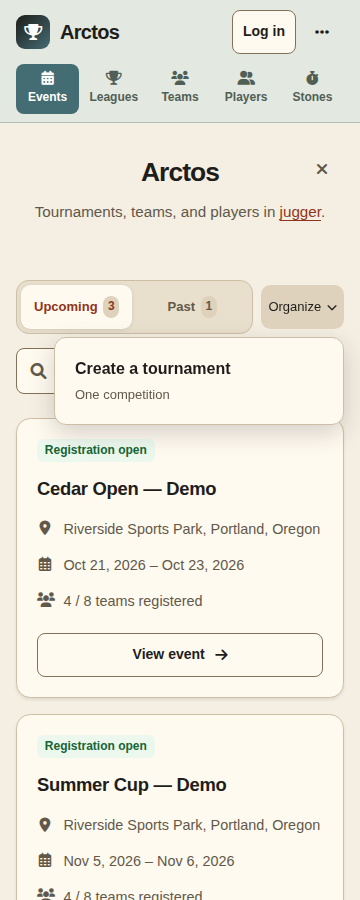
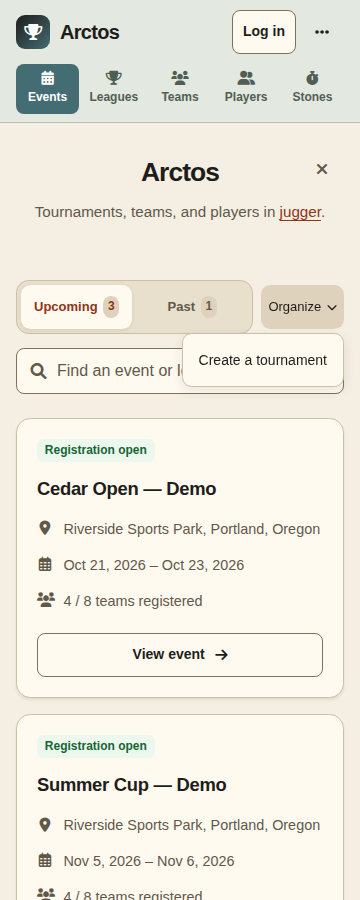
fix(ui): make Organize dropdown compact

Changed region(s): [[0.1528, 0.3733, 0.9167, 0.4978]]

diff --git a/frontend/src/pages/public_pages.css b/frontend/src/pages/public_pages.css
@@ -15,9 +15,8 @@
 .arctos-app .organize-trigger > i { font-size: .65rem; }
 .arctos-app .organize-trigger:hover, .arctos-app .organize-trigger[aria-expanded=true] { color: var(--ui-text); background: var(--ui-surface-hover); }
 .arctos-app .organize-dismiss { position: fixed; inset: 0; z-index: 1; border: 0; padding: 0; background: transparent; cursor: default; }
-.arctos-app .organize-dropdown { position: absolute; z-index: 2; top: calc(100% + 8px); right: 0; width: min(290px, calc(100vw - 32px)); padding: .5rem; border: 1px solid var(--ui-border); border-radius: .75rem; background: var(--ui-surface); box-shadow: 0 8px 24px var(--ui-shadow-strong); }
-.arctos-app .organize-dropdown .dropdown-item { display: flex; flex-direction: column; justify-content: center; gap: .2rem; min-height: 52px; white-space: normal; }
-.arctos-app .organize-dropdown small { color: var(--ui-muted); font-size: .8125rem; font-weight: 400; }
+.arctos-app .organize-dropdown { position: absolute; z-index: 2; top: calc(100% + 4px); right: 0; width: max-content; max-width: calc(100vw - 32px); padding: 4px; border: 1px solid var(--ui-border); border-radius: .6rem; background: var(--ui-surface); box-shadow: 0 4px 12px var(--ui-shadow); }
+.arctos-app .organize-dropdown .dropdown-item { display: flex; align-items: center; min-height: 44px; font-size: .875rem; white-space: nowrap; }
 .arctos-app .arctos-segmented { display: inline-flex; padding: 4px; background: var(--ui-surface-muted); border: 1px solid var(--ui-border); border-radius: .8rem; gap: 4px; }
 .arctos-app .arctos-segment { display: inline-flex; align-items: center; justify-content: center; gap: .5rem; border: 0; background: transparent; color: var(--ui-muted); border-radius: .6rem; min-height: 44px; padding: .6rem 1rem; font-size: .9rem; font-weight: 600; white-space: nowrap; }
 .arctos-app .arctos-segment.is-active { background: var(--ui-surface); color: var(--ui-accent-text); box-shadow: 0 1px 4px var(--ui-shadow); }

diff --git a/frontend/src/components/organize_menu.rs b/frontend/src/components/organize_menu.rs
@@ -11,9 +11,9 @@ pub enum OrganizeContext {
 #[component]
 pub fn OrganizeMenu(context: OrganizeContext) -> Element {
     let mut open = use_signal(|| false);
-    let (destination, label, description) = match context {
-        OrganizeContext::Events => (Route::NewTournament {}, "Create a tournament", "One competition"),
-        OrganizeContext::Leagues => (Route::NewLeague {}, "Create a league", "A season of events"),
+    let (destination, label) = match context {
+        OrganizeContext::Events => (Route::NewTournament {}, "Create a tournament"),
+        OrganizeContext::Leagues => (Route::NewLeague {}, "Create a league"),
     };
 
     rsx! {
@@ -45,9 +45,7 @@ pub fn OrganizeMenu(context: OrganizeContext) -> Element {
                 }
                 div { id: "organize-options", class: "organize-dropdown",
                     Link { to: destination, class: "dropdown-item",
-                        aria_label: "{label}", aria_describedby: "organize-description",
-                        strong { "{label}" }
-                        small { id: "organize-description", "{description}" }
+                        "{label}"
                     }
                 }
             }
